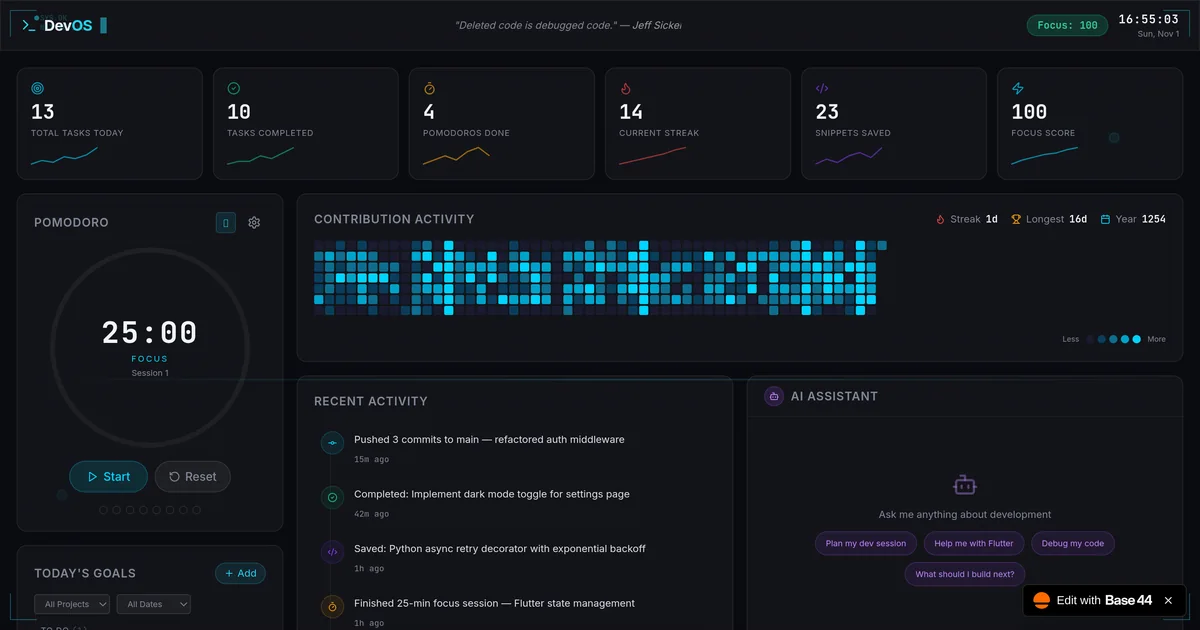
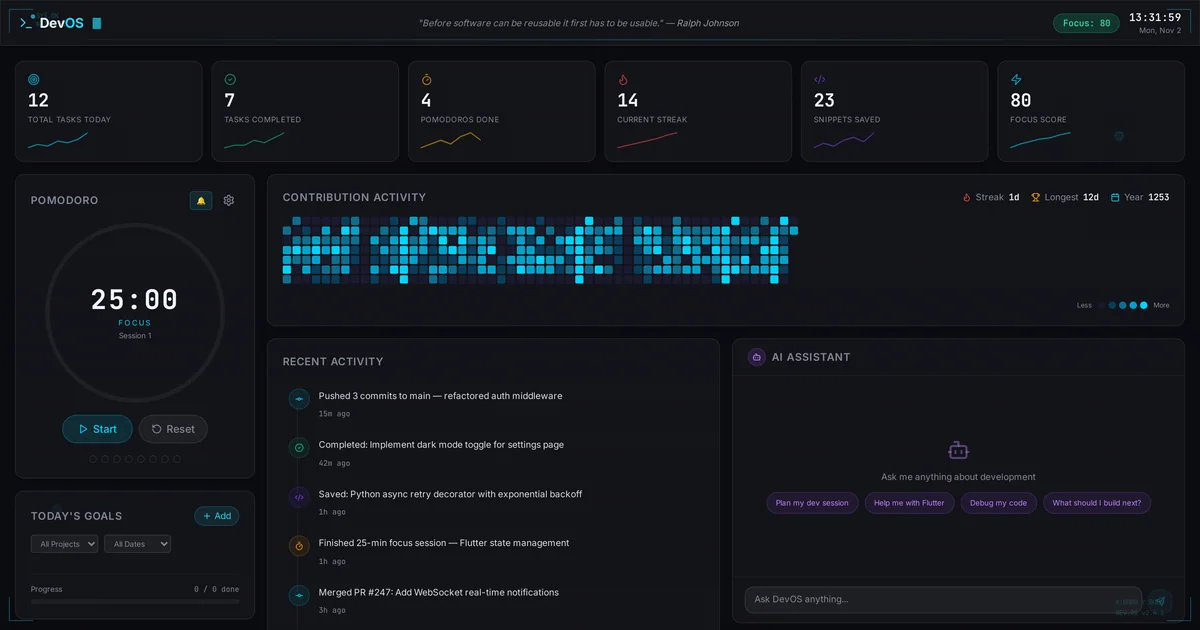
Standardize project metadata and update destination links

diff --git a/src/data/portfolio.ts b/src/data/portfolio.ts
@@ -62,9 +62,9 @@ export interface Project {
 export const featuredProjects: Project[] = [
   {
     slug: "gradr",
-    screenshot: "/projects/previews/gradr.svg",
+    screenshot: "/projects/gradr.webp",
     imageAlt:
-      "Gradr preview artwork — a resume sheet beside an ATS score dial, match breakdown and interview chips.",
+      "Gradr homepage — the “Your AI career command center” hero beside a Career Command Center panel showing an ATS score, keyword coverage and live job matches.",
     name: "Gradr",
     category: "Career Technology · AI",
     description:
@@ -80,6 +80,7 @@ export const featuredProjects: Project[] = [
     ],
     tech: ["AI", "React"],
     status: "Building",
+    live: "https://gradr.me",
     startDate: "2025-09-01",
     filters: ["AI", "React", "Lovable"],
     featured: true,
@@ -500,6 +501,7 @@ export const featuredProjects: Project[] = [
     ],
     tech: ["AI", "React"],
     status: "In Active Development",
+    live: "https://clientflowos.base44.app",
     startDate: "2025-10-01",
     github: "https://github.com/andrewmkbuilds/ClientFlow-OS",
     filters: ["AI", "React"],
@@ -614,6 +616,67 @@ export const featuredProjects: Project[] = [
 ];
 
 export const ecosystemProjects: Project[] = [
+  {
+    slug: "sitescout-ai",
+    screenshot: "/projects/sitescout-ai.webp",
+    imageAlt:
+      "SiteScout AI homepage — the “Find Your Next Client Before Your Competitors Do” hero above a preview dashboard of discovered businesses, website audits and an opportunity funnel.",
+    name: "SiteScout AI",
+    category: "Agency Technology · AI",
+    description:
+      "AI-powered client acquisition for web agencies — discover local businesses, audit their websites, score the real opportunities, and carry every lead through to a signed client.",
+    built: [
+      "Business discovery",
+      "Website audits",
+      "Opportunity scoring",
+      "AI outreach",
+      "Lead pipeline",
+      "Team roles and audit logs",
+    ],
+    tech: ["AI", "React"],
+    status: "Live",
+    live: "https://sitescout-ai.base44.app",
+    filters: ["AI", "Base44"],
+    platform: "base44",
+    problem:
+      "An agency's next client is usually a local business with a weak website, but finding those businesses means scrolling maps, opening sites one at a time and keeping notes in a spreadsheet. SiteScout AI turns that manual sweep into one pipeline: it discovers businesses by industry and location, checks what their sites actually do, separates real opportunities from noise, and keeps the outreach that follows in the same place.",
+    stack: [
+      {
+        group: "Interface",
+        items: ["React", "TypeScript", "Tailwind CSS", "Dashboard layouts"],
+      },
+      {
+        group: "Discovery",
+        items: [
+          "Location and industry search",
+          "Multi-source verification",
+          "CSV import",
+        ],
+      },
+      {
+        group: "Intelligence",
+        items: [
+          "Website audits",
+          "Performance and SEO checks",
+          "Mobile and conversion signals",
+          "Opportunity scoring",
+        ],
+      },
+      {
+        group: "Workspace",
+        items: [
+          "Lead pipeline",
+          "AI outreach drafting",
+          "Organization roles",
+          "Audit logs",
+        ],
+      },
+      {
+        group: "Platform",
+        items: ["Base44", "Postgres", "Row-level security"],
+      },
+    ],
+  },
   {
     slug: "scholara",
     name: "Scholara",
@@ -1048,7 +1111,7 @@ export const ecosystemProjects: Project[] = [
     ],
     tech: ["Python", "AI Integration"],
     status: "Live",
-    live: "https://dev-os-flow.base44.app/",
+    live: "https://dev-os-flow.base44.app",
     screenshot: "/projects/devos.webp",
     imageAlt:
       "DevOS workspace — task metrics, the focus timer, contribution activity and the AI assistant.",
@@ -1168,7 +1231,7 @@ export const ecosystemProjects: Project[] = [
     built: ["Thought capture", "AI classification", "Idea graph mapping"],
     tech: ["AI APIs", "NLP", "Graph Architecture"],
     status: "Live",
-    live: "https://cognos-app.base44.app/",
+    live: "https://cognos-app.base44.app",
     filters: ["AI", "Base44"],
     platform: "base44",
     problem:
@@ -1372,7 +1435,7 @@ export const ecosystemProjects: Project[] = [
     built: ["Guided AI lessons", "Gamification", "API-driven tutoring"],
     tech: ["AI Tutoring", "APIs", "Gamification"],
     status: "Live",
-    live: "https://ai-for-students.base44.app/",
+    live: "https://ai-for-students.base44.app",
     filters: ["AI", "Base44"],
     platform: "base44",
   },

diff --git a/scripts/validate-portfolio-data.ts b/scripts/validate-portfolio-data.ts
@@ -15,6 +15,7 @@ const EXPECTED: Record<"base44" | "lovable", string[]> = {
     "Scholara",
     "CritiqueFlow",
     "The Neon Rush",
+    "SiteScout AI",
   ],
   lovable: ["Gradr", "Home ServeAI"],
 };

diff --git a/AGENTS.md b/AGENTS.md
@@ -283,17 +283,25 @@ Adapted from the 21st.dev "ProjectShowcase" demo.
   each caller keeps its typographic plate (status, name and stack on the primary/gold
   gradient) as the fallback.
 - **Two kinds of asset share `public/projects/`, told apart by format.** Live-site captures
-  are `*.webp`; bespoke illustrations are `previews/<slug>.svg`. Six projects publish a
-  capture (Scholara, CritiqueFlow, The Neon Rush, Horizon Motorsports, DevOS, TabZen), each
-  1200×630 WebP (~20–40 KB) so no surface depends on the live site at runtime. Capture at
-  1440×756 CSS at `deviceScaleFactor: 2` with the puppeteer image, then resize to 1200×630
-  (`fit: cover`, Lanczos). Pick the frame that shows the product itself (CritiqueFlow's
+  are `*.webp`; bespoke illustrations are `previews/<slug>.svg`. Eight projects publish a
+  capture (Gradr, SiteScout AI, Scholara, CritiqueFlow, The Neon Rush, Horizon Motorsports,
+  DevOS, TabZen), each 1200×630 WebP (~20–40 KB) so no surface depends on the live site at
+  runtime. Capture at 1600×840 CSS at `deviceScaleFactor: 2` with the Playwright image, then
+  resize to 1200×630, or at 1440×756 and resize the same way. Pick the frame that shows the
+  product itself (Gradr's Career Command Center, SiteScout's discovery dashboard, CritiqueFlow's
   dashboard, DevOS/TabZen's workspace, Neon Rush's mode grid), not a blind top-left crop.
   Rendered crops anchor to the top (`object-cover object-top`) so each composition's subject
   stays in frame; the image is never stretched.
-- **The other sixteen projects have bespoke artwork, never a faked screenshot.**
-  Stack Up, COGNOS and AI for Students are login-gated with no public product surface (their
-  `/` redirects to a Base44 login form); Gradr, TerraCart, ClientFlow OS, Home ServeAI, JARVIS,
+- **Live URLs are owner-confirmed; the domain is not the project.** Gradr is
+  `https://gradr.me` (the AI career platform — `gradr.xyz` is an unrelated card-grading site),
+  ClientFlow OS is `https://clientflowos.base44.app`, and SiteScout AI is
+  `https://sitescout-ai.base44.app`. `gradr.me` currently fails DNSSEC validation
+  (`No DNSKEY matches DS RRs`), so validating resolvers cannot reach it; capture it with
+  Chromium's `--host-resolver-rules=MAP gradr.me <A record>`. Fix the domain's DNSSEC before
+  promoting the URL anywhere it matters.
+- **The other fifteen projects have bespoke artwork, never a faked screenshot.**
+  Stack Up, COGNOS, ClientFlow OS and AI for Students are login-gated with no public product
+  surface (their `/` redirects to a Base44 login form); TerraCart, Home ServeAI, JARVIS,
   GemLab, Security Camera System, Currency Converter, GesturePlay, Watch Walkie Talkie,
   ConversaCore AI, Arabica AI Chat and NeuroTac AI publish no live URL. Each one has its own
   1200×800 SVG in `public/projects/previews/`, with a composition of its own — a resume sheet
@@ -470,8 +478,10 @@ sites, GitHub, social media or inference.
 
 - When the source contradicts the repo, the source wins. Content the source does not publish
   (a project, award, role, skill list or blog post) is removed rather than kept.
-- The 19 project slugs are exactly the source's `/projects/<slug>` routes; the four featured ones
-  are Gradr, Stack Up, TerraCart and ClientFlow OS, the other 15 form the ecosystem grid.
+- The four featured project slugs are Gradr, Stack Up, TerraCart and ClientFlow OS; every other
+  record forms the ecosystem grid. `SiteScout AI` (added 2026-11-02) came from the owner's
+  confirmed URL list and its own live site rather than the source site — verify it is published
+  there before treating it as source-confirmed like the rest.
 - Certificates are the source's 34 gallery entries with the same titles, issuers, dates, categories
   and file names.
 - `/blog` publishes nothing unless an admin writes a post — the source shows "No posts yet".

diff --git a/public/sitemap.md b/public/sitemap.md
@@ -24,6 +24,7 @@
 - [Stack Up](https://andrewmk.is-a.dev/projects/stack-up): Personal Finance · Gamification
 - [TerraCart](https://andrewmk.is-a.dev/projects/terracart): AI · Sustainability · E-commerce
 - [ClientFlow OS](https://andrewmk.is-a.dev/projects/clientflow-os): Business Operating System · AI
+- [SiteScout AI](https://andrewmk.is-a.dev/projects/sitescout-ai): Agency Technology · AI
 - [Scholara](https://andrewmk.is-a.dev/projects/scholara): Education · School OS · AI
 - [CritiqueFlow](https://andrewmk.is-a.dev/projects/critiqueflow): Design Tooling · Review
 - [The Neon Rush](https://andrewmk.is-a.dev/projects/the-neonrush): Game · Interactive

diff --git a/public/agents.md b/public/agents.md
@@ -9,7 +9,7 @@ Andrew Mathews is a student developer and AI builder from Dubai, United Arab Emi
 ## What is on this site
 
 - Pages: /, /projects, /about, /journey, /skills, /achievements, /resume, /profile, /now, /press-kit, /faq, /colophon, /sitemap, /developers, /contact
-- 22 documented project case studies under /projects.
+- 23 documented project case studies under /projects.
 - A read-only JSON API under /data/v1, described at /developers and in /openapi.json.
 
 ## Authoritative pages per topic
